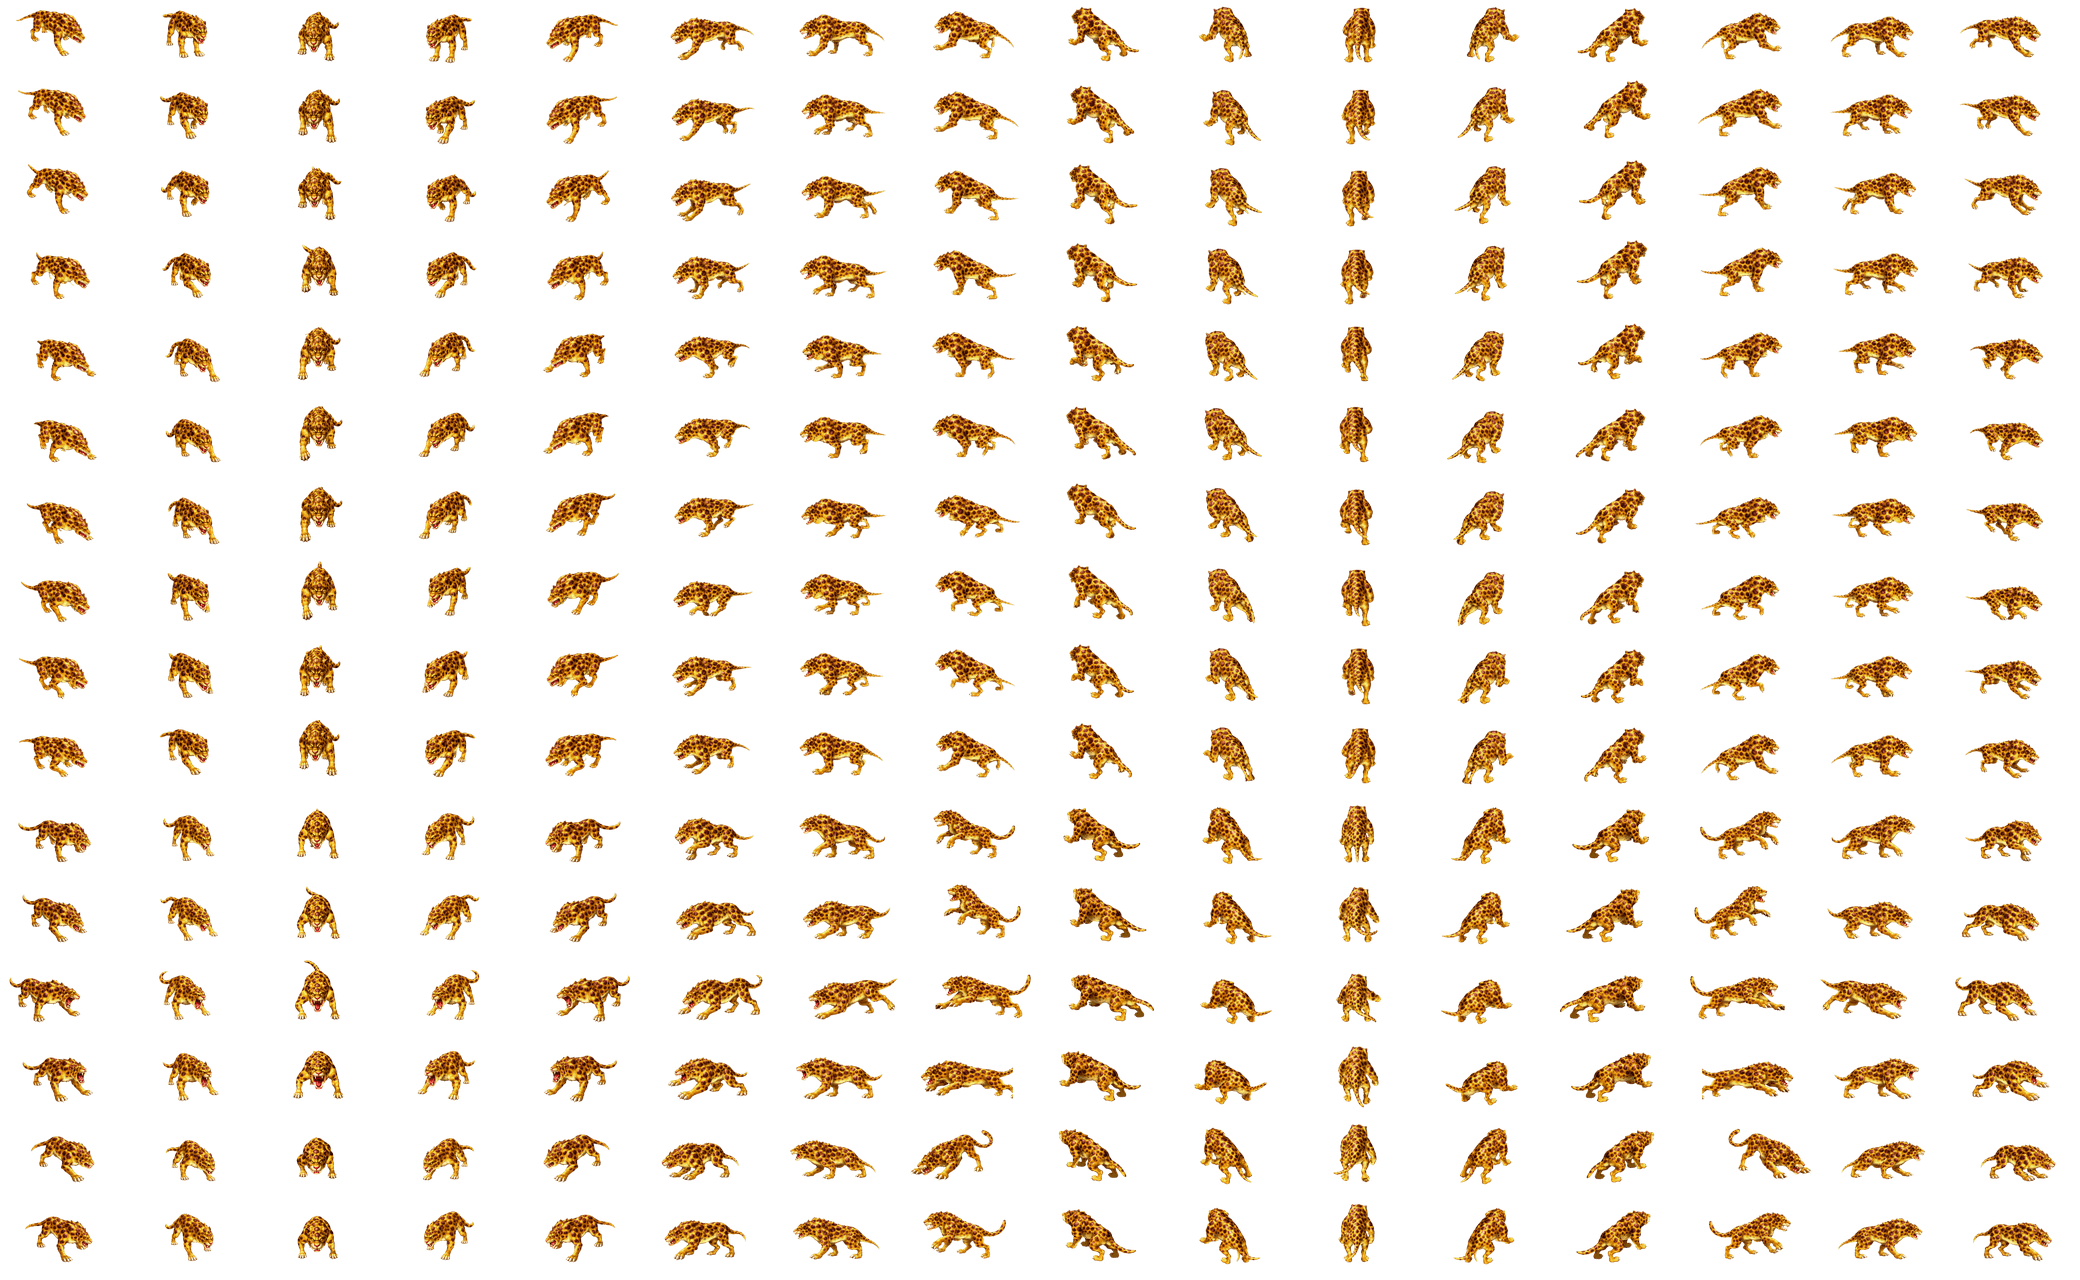
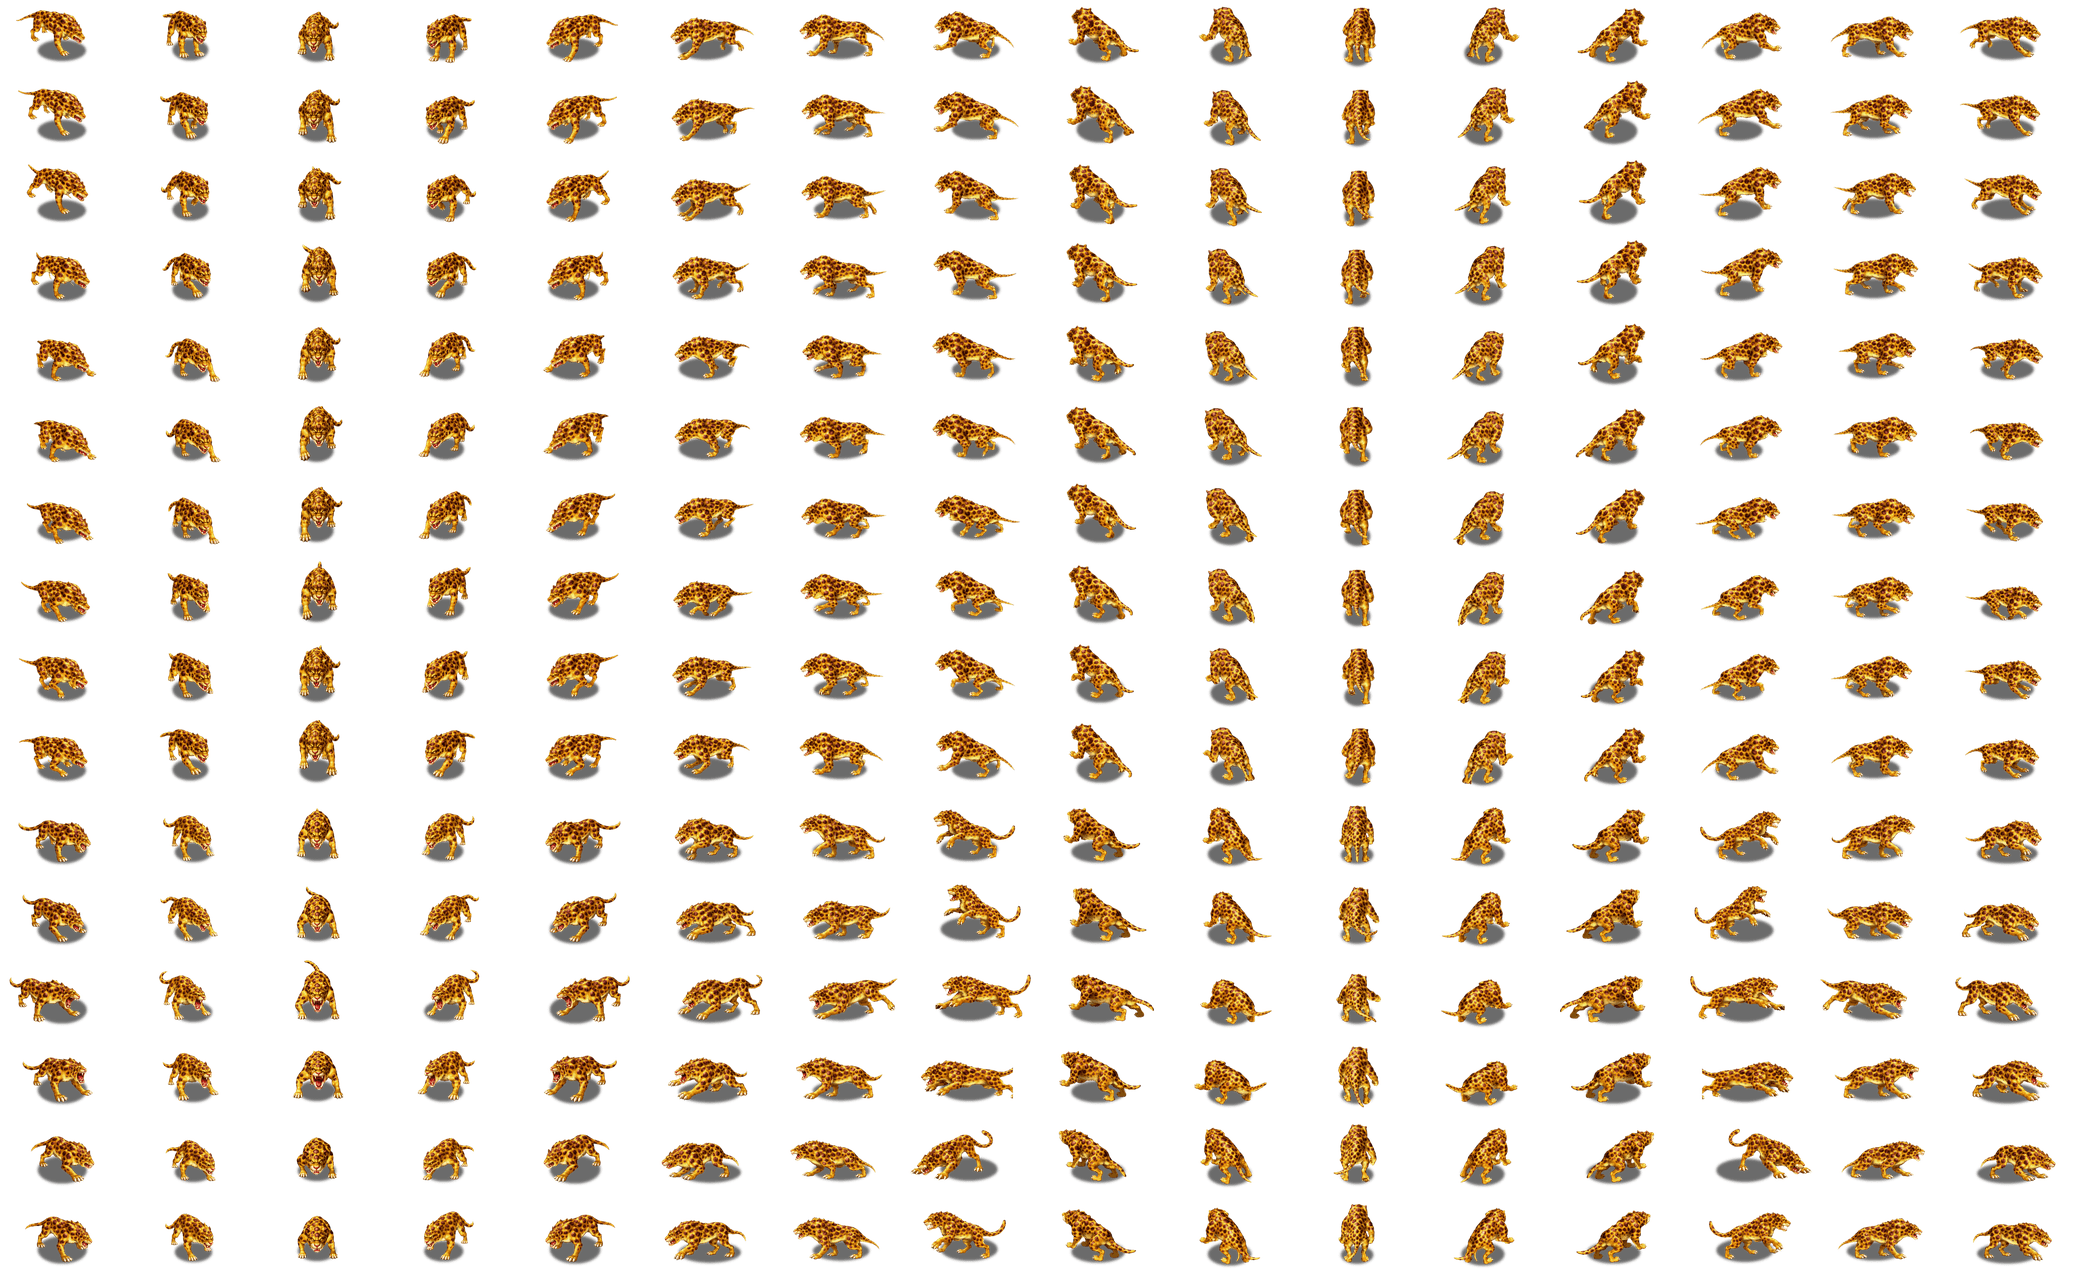
Krallen stands on the ground: soft shadow under all three looks
Owner, 2026-10-25: "Krallen looks like it's floating." Her feet sit exactly
where Flash put them (measured on every heading, within 1 px), but the Flash
sheets had a drop shadow painted onto the grass and the repaints were painted
without one. Long-legged and seen from the side, she lost her only cue that
she touches the ground.

web/tools/add-champ-ground-shadow.py paints a soft dark ellipse under her
feet in every cell, like the creep repaints' shadows, sized from her own body
per heading (one for the run frames, one for the attack frames). Body
colours and the anchor are unchanged. Applied to looks 1, 2 and 3; a test
checks each sheet carries the tool's mark.

diff --git a/web/src/game/attack/monsterSprites.ts b/web/src/game/attack/monsterSprites.ts
@@ -791,9 +791,9 @@ export const REPAINTED_SHEETS: Readonly<Record<string, string>> = {
   "monsters/ape_3.png": "monsters/ape_3-repaint@4x.png", // Gorgo level 3 repaint (all 16 headings, idle + walk + attack)
   "monsters/dragon_3.png": "monsters/dragon_3-repaint@4x.png", // Drull level 3 repaint (all 16 headings painted, idle + walk + attack)
   "monsters/fly_3.png": "monsters/fly_3-repaint@4x.png", // Fomor level 3 repaint (all 16 headings painted, standing + wing beat)
-  "monsters/krallen_1_rev_65.png": "monsters/krallen_1_rev_65-repaint@4x.png", // Krallen look 1 repaint (all 16 headings, run + attack)
-  "monsters/krallen_2_rev_65.png": "monsters/krallen_2_rev_65-repaint@4x.png", // Krallen look 2 repaint (all 16 headings, run + attack)
-  "monsters/krallen_3_rev_65.png": "monsters/krallen_3_rev_65-repaint@4x.png", // Krallen look 3 repaint (all 16 headings, run + attack)
+  "monsters/krallen_1_rev_65.png": "monsters/krallen_1_rev_65-repaint@4x.png", // Krallen look 1 repaint (all 16 headings, run + attack, ground shadow)
+  "monsters/krallen_2_rev_65.png": "monsters/krallen_2_rev_65-repaint@4x.png", // Krallen look 2 repaint (all 16 headings, run + attack, ground shadow)
+  "monsters/krallen_3_rev_65.png": "monsters/krallen_3_rev_65-repaint@4x.png", // Krallen look 3 repaint (all 16 headings, run + attack, ground shadow)
 };
 
 /** Whether a sheet URL names a high-resolution sheet (`name@4x.png`). */

diff --git a/web/src/game/attack/monsterSpriteData.test.ts b/web/src/game/attack/monsterSpriteData.test.ts
@@ -213,4 +213,25 @@ describe("MONSTER_SPRITES", () => {
       });
     }
   });
+
+  it("paints Krallen's ground shadow into every look, once", () => {
+    // Without the Flash sheets' baked shadow she looked as if she floated
+    // (owner, 2026-10-25). `web/tools/add-champ-ground-shadow.py` marks a sheet
+    // it has shadowed with a tEXt chunk ahead of the pixels, and refuses one
+    // already marked.
+    for (const key of ["G5_1", "G5_2", "G5_3"]) {
+      const repaint = REPAINTED_SHEETS[MONSTER_SPRITES[key]?.file ?? ""];
+      expect(repaint, key).toBeDefined();
+      for (const file of [repaint ?? "", (repaint ?? "").replace("@4x", "")]) {
+        const head = Buffer.alloc(256);
+        const handle = openSync(`${ASSETS}${file}`, "r");
+        try {
+          readSync(handle, head, 0, 256, 0);
+        } finally {
+          closeSync(handle);
+        }
+        expect(head.toString("latin1"), file).toContain("tEXtbymr-ground-shadow");
+      }
+    }
+  });
 });

diff --git a/web/tools/add-champ-ground-shadow.py b/web/tools/add-champ-ground-shadow.py
@@ -1,0 +1,122 @@
+#!/usr/bin/env python3
+"""Paint a soft ground shadow under every cell of a repainted champion sheet.
+
+The Flash champion sheets carried a baked drop shadow on the grass; the
+repaints were painted without one ("No shadows, no ground"). A stocky champion
+still reads as standing, but Krallen, long-legged and seen from the side, looked
+as if she floated over the yard (owner, 2026-10-25). This puts back a contact
+shadow in the style of the creep repaints (Fang, Bandito): a soft dark ellipse
+on the ground under the feet, behind the body.
+
+The ellipse is measured from the body itself, per heading: the spread of the
+body's lower half gives its width, the paws its centre, taken as the median
+over the heading's run frames, and again over its attack frames, so it stays
+put while she runs and follows her when she lunges. Nothing else in the cell
+changes, and the anchor stays where it was.
+
+Run it once, on a sheet that has no shadow yet (it refuses a sheet it has
+already shadowed). Both the @4x sheet and its 1x copy are rewritten, quantised
+with libimagequant like the other repaints:
+
+  uv run --no-project --with imagequant --with pillow --with numpy --with scipy \
+    python web/tools/add-champ-ground-shadow.py krallen_1_rev_65
+"""
+import os
+import sys
+from pathlib import Path
+
+import imagequant
+import numpy as np
+from PIL import Image, PngImagePlugin
+from scipy.ndimage import gaussian_filter
+
+ASSETS = Path(__file__).resolve().parents[2] / "server/public/assets/monsters"
+OUT = Path(os.environ.get("SHADOW_OUT", ASSETS))  # write elsewhere to try settings
+UP = 4
+MARK = "bymr-ground-shadow"
+
+# name: (1x cell width, 1x cell height), as in monsterSpriteData.ts.
+SHEETS = {
+    "krallen_1_rev_65": (130, 80),
+    "krallen_2_rev_65": (131, 90),
+    "krallen_3_rev_65": (142, 100),
+}
+COLUMNS = ROWS = 16
+# Krallen's rows: run 0-9, attack 10-15 (`monsterSpriteData.ts` G5_1-G5_3).
+# Each cycle gets its own ellipse, so a lunge keeps the shadow under her.
+CYCLES = {"run": range(0, 10), "attack": range(10, 16)}
+
+# Shadow look, in 1x pixels: a little darker than the creep repaints' shadows,
+# as the yard's dark grass swallowed a lighter one.
+OPACITY = 0.58
+SOFTNESS = 1.25  # gaussian sigma
+LOWER = 0.5  # the share of the body's height, from the feet up, whose spread gives the width
+TRIM = 8  # percent of those pixels left out at each side, so a thin tail or claw does not stretch it
+ASPECT = 0.32  # ellipse height over width, the yard's ground plane
+DROP = 1.0  # centre this far below the middle of the column bottoms
+
+
+def footprint(alpha):
+    """(cx, cy, rx, ry) of the ground under one cell's body, 1x units, or None."""
+    body = alpha >= 128
+    rows = np.where(body.any(1))[0]
+    if len(rows) == 0:
+        return None
+    top, feet = rows.min(), rows.max()
+    low = body.copy()
+    low[: int(feet - LOWER * max(1, feet - top))] = False
+    xs = np.where(low)[1]
+    x0, x1 = np.percentile(xs, TRIM), np.percentile(xs, 100 - TRIM)
+    # The lowest painted pixel of each column across that width: paws near the
+    # viewer at the bottom, far paws and belly higher up, the ground between.
+    lowest = np.array([np.where(body[:, c])[0].max() for c in range(int(x0), int(x1) + 1) if body[:, c].any()])
+    rx = (x1 - x0) / 2 + 2
+    ry = max(rx * ASPECT, (feet - np.percentile(lowest, 10)) / 2 + 1.5)
+    return ((x0 + x1) / 2, (feet + np.percentile(lowest, 10)) / 2 + DROP, rx, ry)
+
+
+def main():
+    if len(sys.argv) != 2 or sys.argv[1] not in SHEETS:
+        sys.exit(f"usage: add-champ-ground-shadow.py <{'|'.join(SHEETS)}>")
+    name = sys.argv[1]
+    fw, fh = SHEETS[name]
+    path4 = ASSETS / f"{name}-repaint@4x.png"
+    src = Image.open(path4)
+    if MARK in getattr(src, "text", {}):
+        sys.exit(f"{path4.name} already has its ground shadow")
+    big = src.convert("RGBA")
+    assert big.size == (fw * COLUMNS * UP, fh * ROWS * UP), big.size
+    small = np.asarray(big.resize((fw * COLUMNS, fh * ROWS), Image.LANCZOS))[..., 3]
+    out = np.array(big)
+
+    yy, xx = np.mgrid[0 : fh * UP, 0 : fw * UP].astype(np.float32) / UP
+    for c in range(COLUMNS):
+        for cycle, rows in CYCLES.items():
+            prints = [footprint(small[r * fh : (r + 1) * fh, c * fw : (c + 1) * fw]) for r in rows]
+            prints = np.array([p for p in prints if p is not None])
+            if len(prints) == 0:
+                continue
+            cx, cy, rx, ry = np.median(prints, axis=0)
+            inside = (((xx - cx) / rx) ** 2 + ((yy - cy) / ry) ** 2 <= 1).astype(np.float32)
+            shade = gaussian_filter(inside, SOFTNESS * UP) * OPACITY
+            for r in rows:
+                ys, xs = slice(r * fh * UP, (r + 1) * fh * UP), slice(c * fw * UP, (c + 1) * fw * UP)
+                cell = out[ys, xs].astype(np.float32) / 255
+                a, s = cell[..., 3:4], shade[..., None]
+                # Body over shadow (the shadow is black, so only alpha mixes in).
+                alpha = a + s * (1 - a)
+                cell[..., :3] *= a / np.maximum(alpha, 1e-6)
+                cell[..., 3:4] = alpha
+                out[ys, xs] = (cell * 255 + 0.5).clip(0, 255).astype(np.uint8)
+            print(f"heading {c:2d} {cycle:6s}: centre ({cx:5.1f}, {cy:5.1f}) radii ({rx:4.1f}, {ry:4.1f})")
+
+    sheet = Image.fromarray(out, "RGBA")
+    info = PngImagePlugin.PngInfo()
+    info.add_text(MARK, "1")
+    for img, path in ((sheet, OUT / path4.name), (sheet.resize((fw * COLUMNS, fh * ROWS), Image.LANCZOS), OUT / f"{name}-repaint.png")):
+        imagequant.quantize_pil_image(img, max_quality=95, min_quality=60).save(path, optimize=True, pnginfo=info)
+        print("wrote", path.name, f"{path.stat().st_size / 1e6:.1f} MB")
+
+
+if __name__ == "__main__":
+    main()
